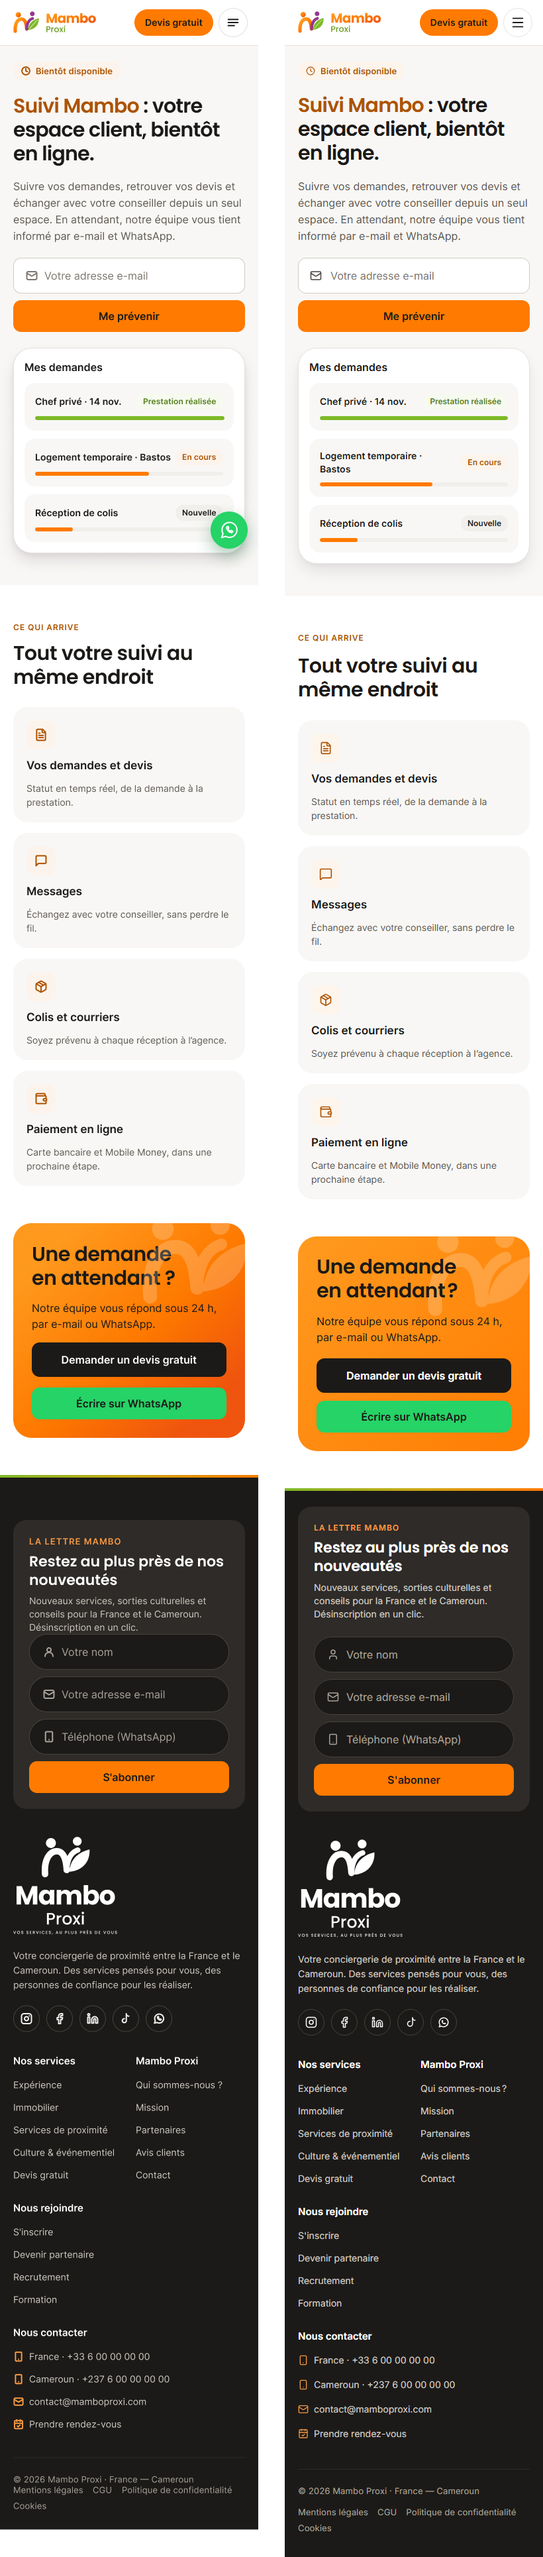
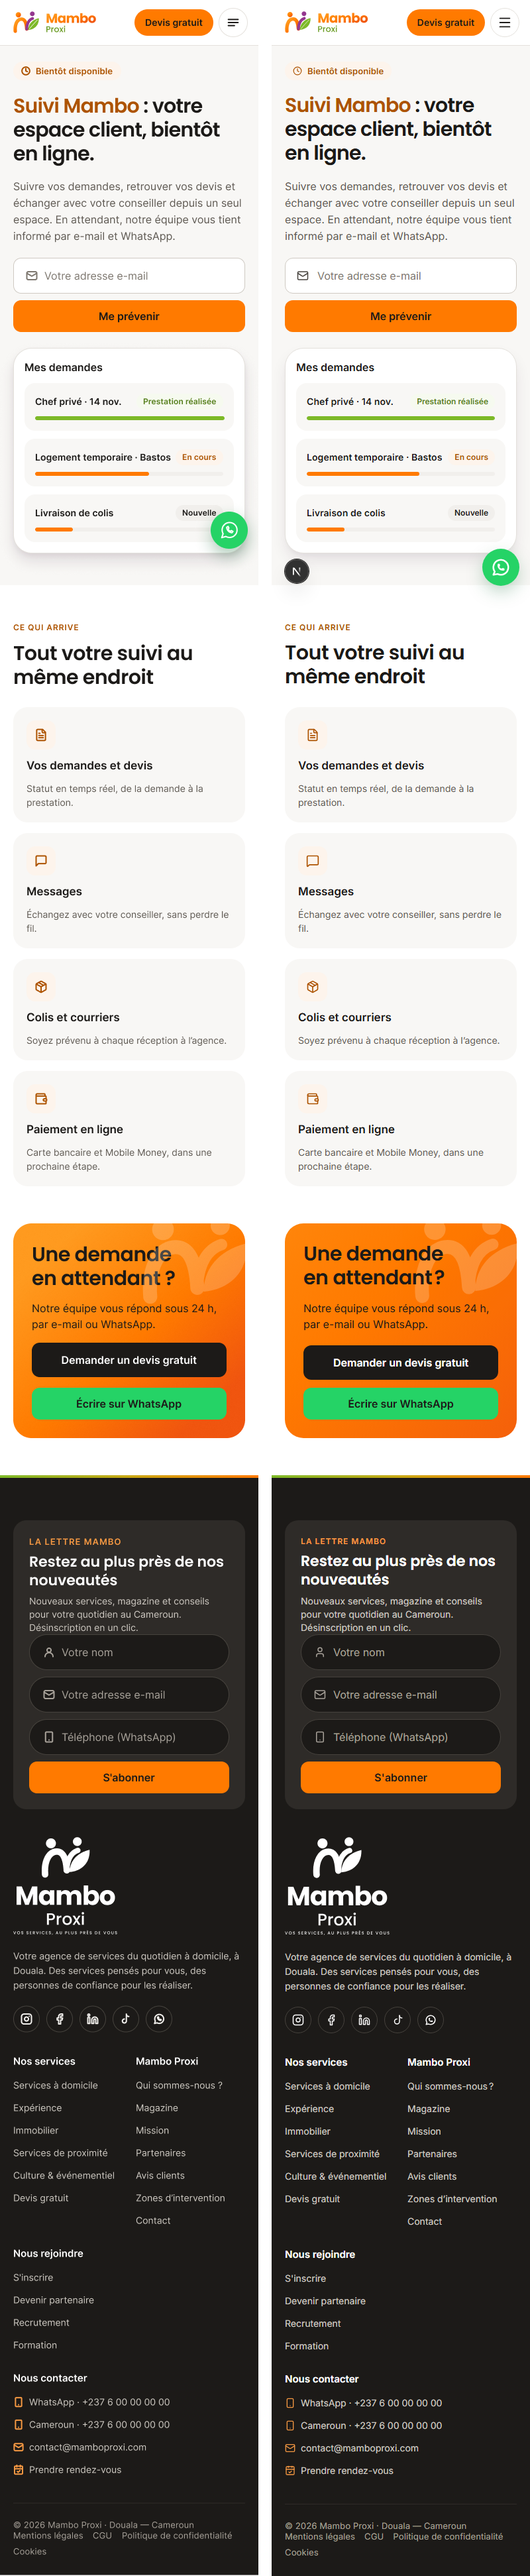
feat(suivi): « Livraison de colis », aperçu et fil d'Ariane traduits, version anglaise de la page

Changed region(s): [[0.0, 0.0, 1.0, 1.0], [0.0312, 0.0, 0.4688, 0.2177], [0.7812, 0.3421, 0.8125, 0.3732]]

diff --git a/src/components/sections/suivi/suivi-hero.tsx b/src/components/sections/suivi/suivi-hero.tsx
@@ -1,15 +1,16 @@
 import { Clock } from 'lucide-react';
+import { getTranslations } from 'next-intl/server';
 import { AccentText } from '@/components/ui/accent-text';
 import type { HeroSection } from '@/lib/api/schema';
 import { cn } from '@/lib/cn';
 import { frenchTypography } from '@/lib/format/typography';
 import { NotifyForm } from './notify-form';
 
-/** Demandes factices de l'aperçu « Mes demandes » (`83:9536`) : statut, couleurs et avancement. */
+/** Demandes factices de l'aperçu « Mes demandes » (`83:9536`) : textes (`suivi.preview`), couleurs et avancement. */
 const PREVIEW = [
-  { title: 'Chef privé · 14 nov.', status: 'Prestation réalisée', tone: 'done', progress: 1 },
-  { title: 'Logement temporaire · Bastos', status: 'En cours', tone: 'active', progress: 0.6 },
-  { title: 'Réception de colis', status: 'Nouvelle', tone: 'new', progress: 0.2 },
+  { title: 'chef', tone: 'done', progress: 1 },
+  { title: 'housing', tone: 'active', progress: 0.6 },
+  { title: 'parcels', tone: 'new', progress: 0.2 },
 ] as const;
 
 const BADGES = {
@@ -22,7 +23,8 @@ const BADGES = {
  * Héros de Suivi Mambo (`83:9519`) : badge « Bientôt disponible », titre dont « Suivi Mambo » est en orange, chapô,
  * « Me prévenir » ; à droite, aperçu illustratif de l'espace client (carte 520, ombre `elevation/3`).
  */
-export function SuiviHero({ section }: { section: HeroSection }) {
+export async function SuiviHero({ section }: { section: HeroSection }) {
+  const t = await getTranslations('suivi');
   return (
     <section className="bg-neutral-50">
       <div className="container-site grid items-center gap-6 pt-6 pb-12 xl:grid-cols-[minmax(0,1fr)_520px] xl:gap-16 xl:pt-16 xl:pb-24">
@@ -45,12 +47,12 @@ export function SuiviHero({ section }: { section: HeroSection }) {
           aria-hidden
           className="flex flex-col gap-3 rounded-[28px] border border-border-default bg-neutral-0 p-4 shadow-3 xl:p-6"
         >
-          <p className="font-ui text-[16px] leading-6 font-semibold text-text-main">Mes demandes</p>
+          <p className="font-ui text-[16px] leading-6 font-semibold text-text-main">{t('previewTitle')}</p>
           {PREVIEW.map((item) => (
             <div key={item.title} className="flex flex-col gap-2.5 rounded-2xl bg-neutral-50 p-4">
-              <div className="flex items-center justify-between gap-3">
+              <div className="flex items-center justify-between gap-1.5">
                 <span className="font-ui text-[14px] leading-5 font-semibold tracking-[0.005em] text-text-main">
-                  {item.title}
+                  {t(`preview.${item.title}`)}
                 </span>
                 <span
                   className={cn(
@@ -58,7 +60,7 @@ export function SuiviHero({ section }: { section: HeroSection }) {
                     BADGES[item.tone],
                   )}
                 >
-                  {item.status}
+                  {t(`preview.${item.tone}`)}
                 </span>
               </div>
               <span className="h-1.5 overflow-hidden rounded-full bg-neutral-100">

diff --git a/src/mocks/data/pages.ts b/src/mocks/data/pages.ts
@@ -1481,6 +1481,71 @@ const suiviMambo: Page = {
   ],
 };
 
+const suiviMamboEn: Page = {
+  ...suiviMambo,
+  title: 'Mambo tracking',
+  seo: {
+    title: 'Mambo tracking: your client area, coming soon',
+    description:
+      'Follow your requests, find your quotes and talk to your adviser from a single space: be told when it opens.',
+    ogImageUrl: null,
+    noindex: false,
+  },
+  sections: [
+    {
+      id: 'hero',
+      type: 'hero',
+      enabled: true,
+      variant: 'page',
+      badge: { tag: null, text: 'Coming soon' },
+      title: '==Mambo tracking==: your client area, online soon.',
+      lead: 'Follow your requests, find your quotes and talk to your adviser from a single space. In the meantime, our team keeps you informed by email and WhatsApp.',
+      showWhatsapp: false,
+    },
+    {
+      id: 'fonctionnalites',
+      type: 'cardGrid',
+      enabled: true,
+      tone: 'light',
+      layout: 'cards',
+      columns: 4,
+      eyebrow: 'What’s coming',
+      title: 'All your tracking in one place',
+      items: [
+        {
+          icon: 'FileText',
+          title: 'Your requests and quotes',
+          text: 'Real-time status, from request to service.',
+        },
+        {
+          icon: 'MessageSquare',
+          title: 'Messages',
+          text: 'Talk to your adviser without losing track.',
+        },
+        {
+          icon: 'Package',
+          title: 'Parcels and mail',
+          text: 'Be notified each time something arrives at the agency.',
+        },
+        {
+          icon: 'Wallet',
+          title: 'Online payment',
+          text: 'Bank card and Mobile Money, in a later step.',
+        },
+      ],
+    },
+    {
+      id: 'cta',
+      type: 'ctaBand',
+      enabled: true,
+      title: 'Something to ask\nin the meantime?',
+      text: 'Our team replies within 24 hours, by email or WhatsApp.',
+      primaryCta: { label: 'Request a free quote', href: '/devis', external: false },
+      showWhatsapp: true,
+    },
+  ],
+};
+
 /** Magazine, édition n° 1 (`254:26265`, `254:26493`). */
 const magazine: Page = {
   key: 'magazine',
@@ -1829,6 +1894,7 @@ export const pagesEn: Partial<Record<Page['key'], Page>> = {
   formation: formationEn,
   recrutement: recrutementEn,
   'avis-clients': avisClientsEn,
+  'suivi-mambo': suiviMamboEn,
   magazine: magazineEn,
   'zones-d-intervention': zonesEn,
 };

diff --git a/src/app/[locale]/(site)/suivi-mambo/page.tsx b/src/app/[locale]/(site)/suivi-mambo/page.tsx
@@ -1,5 +1,6 @@
 import type { Metadata } from 'next';
 import { notFound } from 'next/navigation';
+import { getTranslations } from 'next-intl/server';
 import { PageSections } from '@/components/sections/content/page-sections';
 import { SuiviHero } from '@/components/sections/suivi/suivi-hero';
 import { getPage, pageMetadata } from '@/lib/pages';
@@ -16,12 +17,17 @@ export function generateMetadata(): Promise<Metadata> {
  * (cahier §9). Inscription pour être prévenu de l'ouverture, fonctionnalités à venir, bandeau CTA.
  */
 export default async function SuiviPage() {
-  const [page, settings] = await Promise.all([getPage('suivi-mambo'), getSiteSettings()]);
+  const [page, settings, t, tRubrique] = await Promise.all([
+    getPage('suivi-mambo'),
+    getSiteSettings(),
+    getTranslations('suivi'),
+    getTranslations('rubrique'),
+  ]);
   if (!page) notFound();
   return (
     <PageSections
       page={page}
-      breadcrumb={[{ label: 'Accueil', href: routes.home }, { label: 'Suivi Mambo' }]}
+      breadcrumb={[{ label: tRubrique('home'), href: routes.home }, { label: t('breadcrumb') }]}
       whatsappHref={
         settings.whatsapp.enabled ? whatsappUrl(settings.whatsapp.number, settings.whatsapp.message) : null
       }
